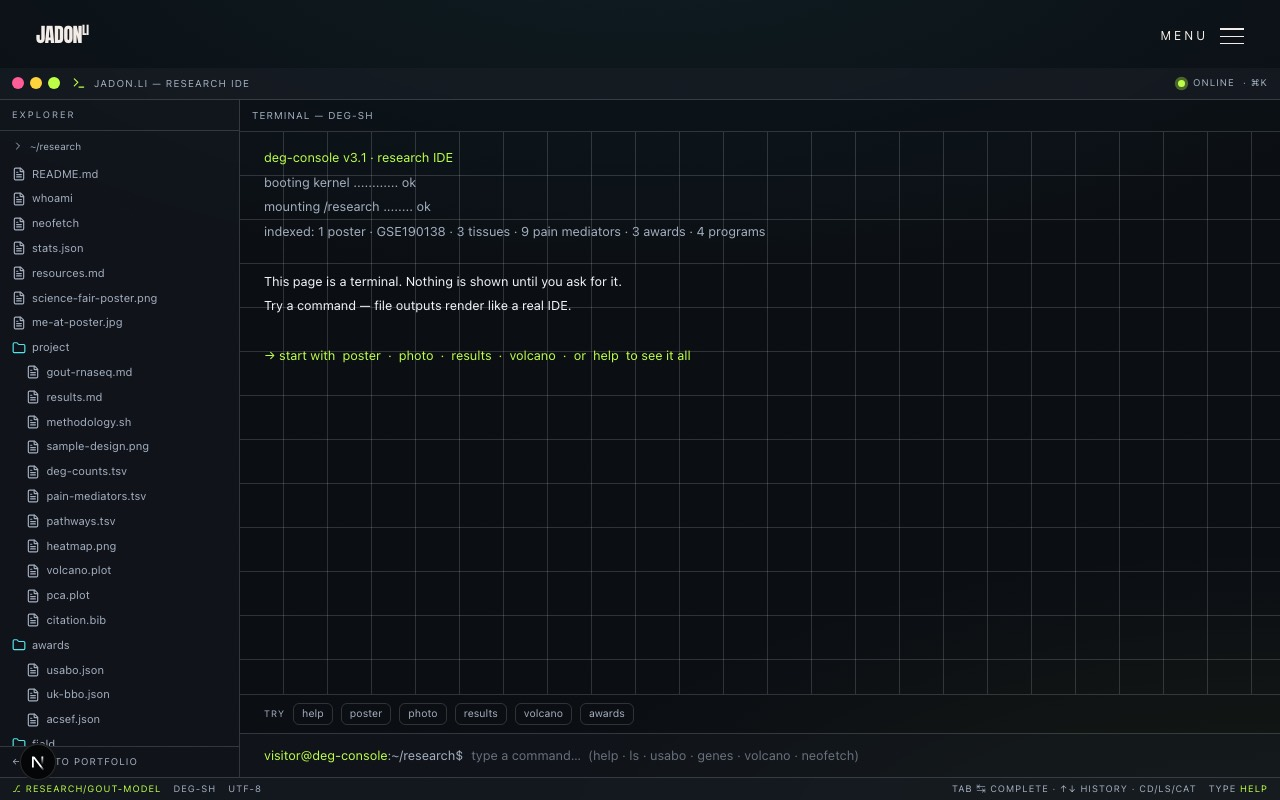
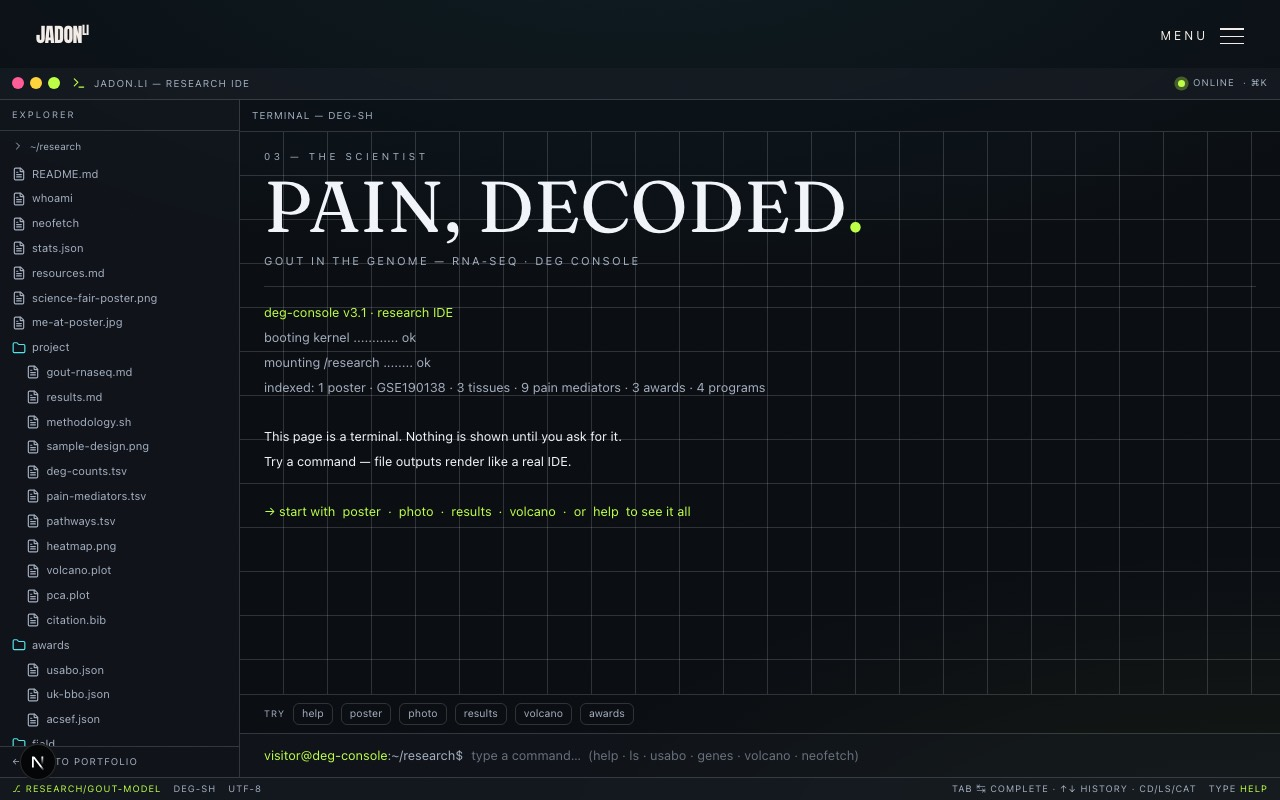
feat(nav): bigger menu utility chips; research retitled 'PAIN, DECODED.'; refresh preview
- Menu bottom buttons enlarged (px-7 py-4, 0.82rem) with brighter resting text
- Research masthead is now a statement title like the other chapters, one
  size up (text-5xl/7xl)
- Research hover preview recaptured with the new masthead

diff --git a/src/components/chrome/ContactSheet.tsx b/src/components/chrome/ContactSheet.tsx
@@ -237,7 +237,7 @@ export function ContactSheet({ onClose }: { onClose: () => void }) {
         initial={{ opacity: 0 }}
         animate={{ opacity: 1 }}
         transition={{ delay: 0.5 }}
-        className="flex flex-wrap items-center justify-center gap-3 px-5 pb-9"
+        className="flex flex-wrap items-center justify-center gap-4 px-5 pb-10"
       >
         {UTILITY.map((u) => {
           const here = pathname === u.href || current === u.href;
@@ -248,8 +248,8 @@ export function ContactSheet({ onClose }: { onClose: () => void }) {
               data-cursor-hover
               onClick={here ? (e) => { e.preventDefault(); onClose(); } : undefined}
               aria-current={here ? "page" : undefined}
-              className={`border px-5 py-3 font-mono text-[0.7rem] uppercase tracking-[0.22em] transition-colors [background:linear-gradient(#1c1c24,#1c1c24)_padding-box,repeating-linear-gradient(90deg,#070709_0_6px,#3a3a45_6px_8px)_border-box] ${
-                here ? "border-[#c43e2c] text-[#f4f1ea]" : "border-transparent text-[#cfccc2] hover:border-[#d9a83f] hover:text-[#f4f1ea]"
+              className={`border px-7 py-4 font-mono text-[0.82rem] uppercase tracking-[0.24em] transition-colors [background:linear-gradient(#1c1c24,#1c1c24)_padding-box,repeating-linear-gradient(90deg,#070709_0_6px,#3a3a45_6px_8px)_border-box] ${
+                here ? "border-[#c43e2c] text-[#f4f1ea]" : "border-transparent text-[#e2dfd6] hover:border-[#d9a83f] hover:text-[#f4f1ea]"
               }`}
             >
               {u.label}
@@ -261,7 +261,7 @@ export function ContactSheet({ onClose }: { onClose: () => void }) {
           target="_blank"
           rel="noreferrer"
           data-cursor-hover
-          className="px-3 py-3 font-mono text-[0.7rem] uppercase tracking-[0.22em] text-[#cfccc2] transition-colors hover:text-[#f4f1ea]"
+          className="px-4 py-4 font-mono text-[0.82rem] uppercase tracking-[0.24em] text-[#e2dfd6] transition-colors hover:text-[#f4f1ea]"
         >
           {PROFILE.links.instagramHandle}
         </a>

diff --git a/src/components/research/lab/ResearchIDE.tsx b/src/components/research/lab/ResearchIDE.tsx
@@ -470,12 +470,12 @@ export function ResearchIDE() {
               transition={{ duration: 0.6, ease: [0.16, 1, 0.3, 1] }}
               className="mb-4 border-b border-[var(--line)] pb-4"
             >
-              <p className="font-mono text-[0.6rem] uppercase tracking-[0.35em] text-[var(--muted)]">03 — The Scientist</p>
-              <p className="font-display mt-1.5 text-4xl leading-none text-[var(--fg)] md:text-6xl">
-                RESEARCH<span className="text-[var(--accent)]">.</span>
+              <p className="font-mono text-[0.62rem] uppercase tracking-[0.35em] text-[var(--muted)]">03 — The Scientist</p>
+              <p className="font-display mt-2 text-5xl leading-[0.95] text-[var(--fg)] md:text-7xl">
+                PAIN, DECODED<span className="text-[var(--accent)]">.</span>
               </p>
-              <p className="mt-2.5 font-mono text-[0.68rem] uppercase tracking-[0.2em] text-[var(--muted)]">
-                Gout pain in the genome — RNA-seq · DEG console
+              <p className="mt-3 font-mono text-[0.7rem] uppercase tracking-[0.2em] text-[var(--muted)]">
+                Gout in the genome — RNA-seq · DEG console
               </p>
             </motion.div>
             {log.map((e) => (
